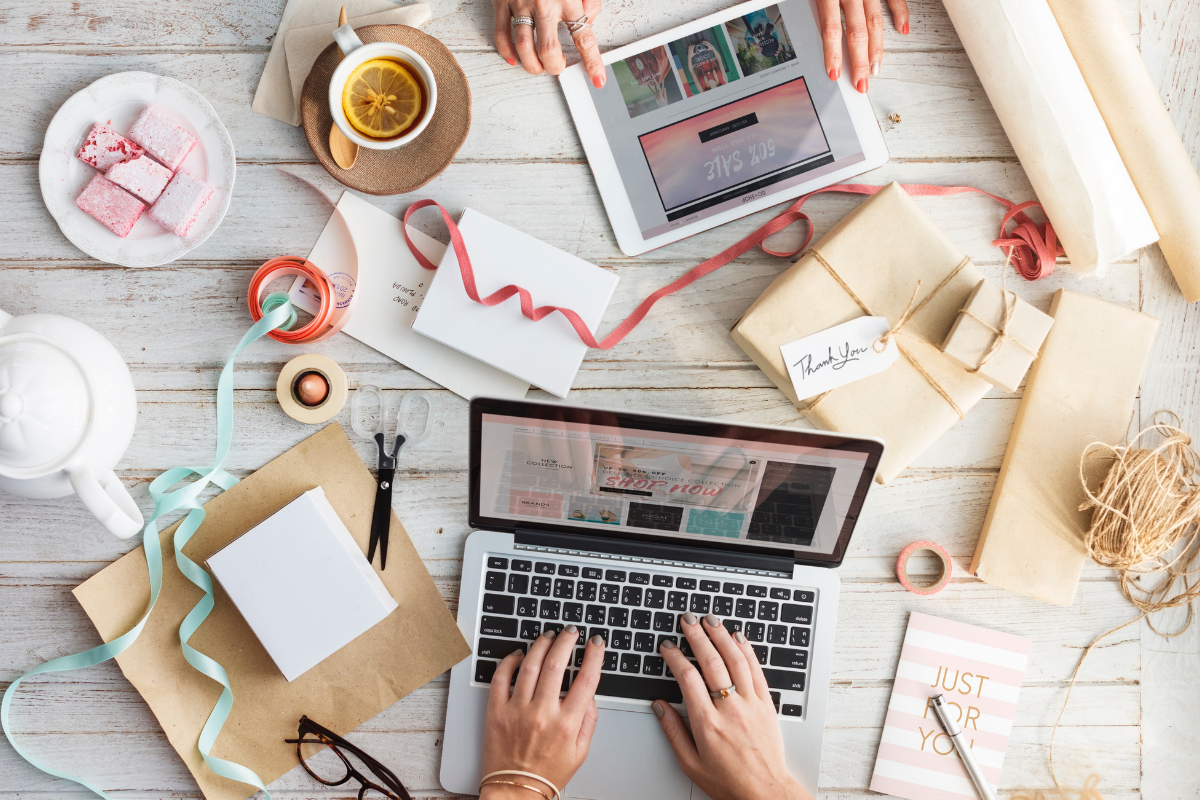
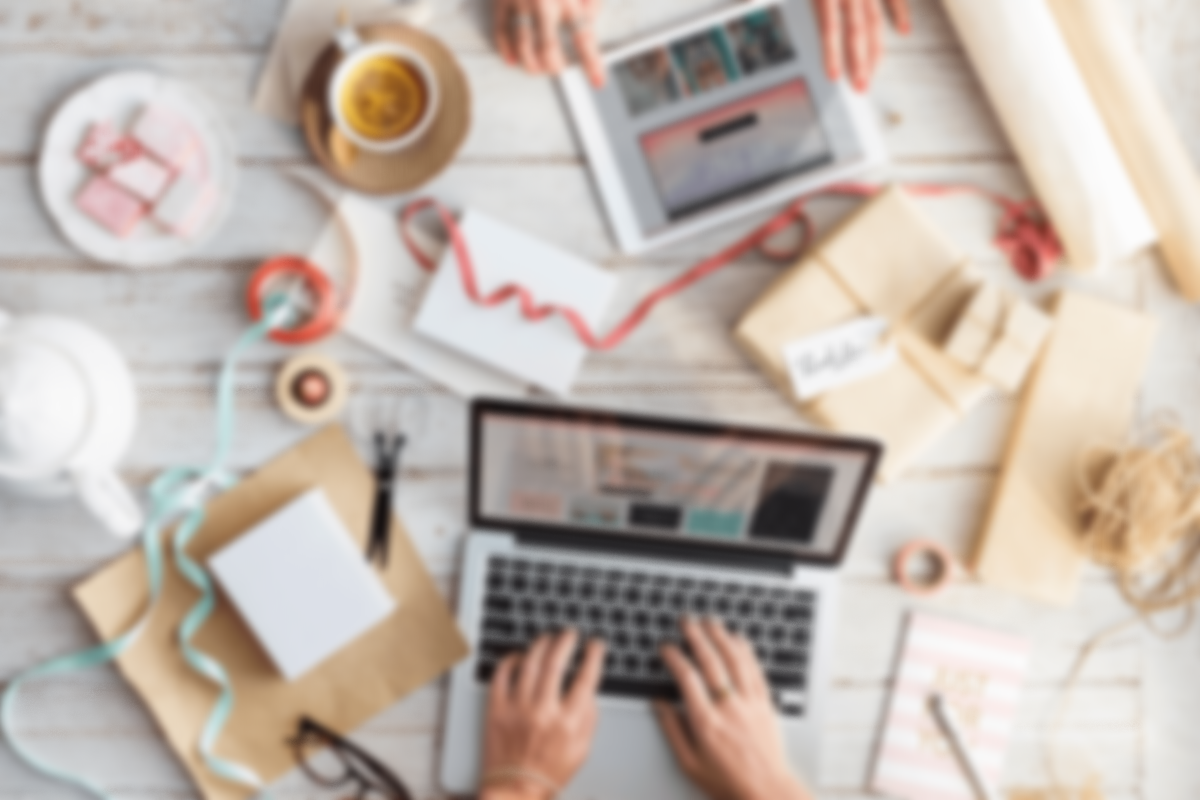
Feature (#1)
* style: added content-container, width fitting

* style: text correction

* style: blurred-background

---------

diff --git a/styles-LandingPage.css b/styles-LandingPage.css
@@ -3,24 +3,34 @@ body {
     padding: 0;
     font-family: Arial, sans-serif;
     font-size: 35px;
-    margin-left: 15px; /* Mover el h1 3px hacia la derecha */
-    background-image: url('img/background.png'); /* Ruta de tu imagen de fondo */
-    background-size: cover; /* Hace que la imagen de fondo cubra todo el área disponible */
-    background-position: center; /* Centra la imagen de fondo */
-    background-repeat: no-repeat; /* Evita la repetición de la imagen de fondo */
-    width: 100%;
+    margin-left: 15px;
+    /* Mover el h1 3px hacia la derecha */
+    background-image: url('img/background.png');
+    /* Ruta de tu imagen de fondo */
+    background-size: cover;
+    /* Hace que la imagen de fondo cubra todo el área disponible */
+    background-position: center;
+    /* Centra la imagen de fondo */
+    background-repeat: no-repeat;
+    /* Evita la repetición de la imagen de fondo */
+    min-height: 100%;
 }
 
 header {
-    background-color: rgba(236, 194, 166, 0.445); /* Color de fondo del encabezado con 70% de opacidad */
+    background-color: rgba(236, 194, 166, 0.445);
+    /* Color de fondo del encabezado con 70% de opacidad */
     padding: 5px;
-    display: flex; /* Usar flexbox */
-    justify-content: space-between; /* Alinear elementos al extremo */
-    align-items: center; /* Centrar verticalmente */
+    display: flex;
+    /* Usar flexbox */
+    justify-content: space-between;
+    /* Alinear elementos al extremo */
+    align-items: center;
+    /* Centrar verticalmente */
 }
 
 .logo {
-    max-width: 80px; /* Ancho máximo del logo */
+    max-width: 80px;
+    /* Ancho máximo del logo */
 }
 
 .navbar {
@@ -41,18 +51,27 @@ header {
 .navbar li a {
     text-decoration: none;
     padding: 15px 25px;
-    border: 2px solid #D35400; /* Borde alrededor de los botones */
-    border-radius: 20px; /* Hace los bordes más redondos */
-    background-color: #D35400; /* Color de fondo de los botones */
-    color: #FFFFFF; /* Color del texto */
-    font-family: 'Lato', sans-serif; /* Fuente Lato */
-    font-size: 16px; /* Tamaño de fuente */
+    border: 2px solid #D35400;
+    /* Borde alrededor de los botones */
+    border-radius: 20px;
+    /* Hace los bordes más redondos */
+    background-color: #D35400;
+    /* Color de fondo de los botones */
+    color: #FFFFFF;
+    /* Color del texto */
+    font-family: 'Lato', sans-serif;
+    /* Fuente Lato */
+    font-size: 16px;
+    /* Tamaño de fuente */
 }
 
 .navbar li a:hover {
-    background-color: #FDF2E9; /* Color de fondo al pasar el mouse */
-    color: #D35400; /* Color del texto al pasar el mouse */
+    background-color: #FDF2E9;
+    /* Color de fondo al pasar el mouse */
+    color: #D35400;
+    /* Color del texto al pasar el mouse */
 }
+
 .btn-iniciar {
     display: inline-block;
     background-color: #D35400;
@@ -63,25 +82,26 @@ header {
     text-decoration: none;
     font-size: 25px;
     cursor: pointer;
-    margin-left: 150px; /* Mover el botón 20px hacia la derecha */
+    margin-left: 150px;
+    /* Mover el botón 20px hacia la derecha */
 }
 
 .btn-iniciar:hover {
     background-color: #FDF2E9;
     color: #D35400;
 }
+
 .content {
-    text-align:left;
+    text-align: left;
     color: #000000;
     background-color: #ffffffc5;
     background-size: cover;
     background-position: center;
     padding: 6%;
-    font-family:Georgia, 'Times New Roman', Times, serif;
+    font-family: Georgia, 'Times New Roman', Times, serif;
     font-size: 18px
-
-
 }
+
 .social-media {
     text-align: center;
     margin-top: 20px;
@@ -97,14 +117,16 @@ header {
 }
 
 footer {
-    background-color: #204979; /* Color de fondo para el footer */
-    color: #fff; /* Color de texto para el footer */
+    background-color: #204979;
+    /* Color de fondo para el footer */
+    color: #fff;
+    /* Color de texto para el footer */
     text-align: center;
     padding: 5px;
-    font-family:Georgia, 'Times New Roman', Times, serif;
+    font-family: Georgia, 'Times New Roman', Times, serif;
     font-size: 18px
-    
 }
+
 .contact-info {
     text-align: center;
     margin-top: 10px;
@@ -112,10 +134,8 @@ footer {
     background-color: rgba(226, 224, 223, 0.89);
     opacity: 90%;
     padding: 2%;
-    font-family:Georgia, 'Times New Roman', Times, serif;
+    font-family: Georgia, 'Times New Roman', Times, serif;
     font-size: 18px
-    
-
 }
 
 .social-media {
@@ -131,22 +151,45 @@ footer {
 }
 
 .social-icon img {
-    
-        width: 50px; /* Cambia este valor al tamaño deseado */
-        height: auto; /* Para mantener la proporción original */
 
-    
+    width: 50px;
+    /* Cambia este valor al tamaño deseado */
+    height: auto;
+    /* Para mantener la proporción original */
+
+
 }
-.img_experiencia{
-        float: right;
-        margin-left: 30px; /* Ajusta el margen izquierdo para separar la imagen del texto */
-        width: 280px; /* Cambia este valor al ancho deseado */
-    height: 800; /* Mantener la proporción original */
-    }
-   .img_experiencia2{
+
+.img_experiencia {
+    float: right;
+    margin-left: 30px;
+    /* Ajusta el margen izquierdo para separar la imagen del texto */
+    width: 280px;
+    /* Cambia este valor al ancho deseado */
+    height: 800;
+    /* Mantener la proporción original */
+}
+
+.img_experiencia2 {
     float: left;
-        margin-right: 30px; /* Ajusta el margen izquierdo para separar la imagen del texto */
-        width: 260px; /* Cambia este valor al ancho deseado */
-    height: 200; /* Mantener la proporción original */
-    }
-   
+    margin-right: 30px;
+    /* Ajusta el margen izquierdo para separar la imagen del texto */
+    width: 260px;
+    /* Cambia este valor al ancho deseado */
+    height: 200;
+    /* Mantener la proporción original */
+}
+
+.content-container {
+    display: flex;
+    min-width: 100%;
+    justify-content: space-between;
+    align-items: center;
+    margin: 20px;
+}
+
+.content {
+    max-width: 50%;
+    /* Cambia el tamaño según sea necesario */
+    text-align: center;
+}

diff --git a/LandignPage.html b/LandignPage.html
@@ -19,22 +19,24 @@
     </header>
 
     <div class="content0"> 
-        <h1>¿Quieres ayuda<br>para organizar tu(s)<br>evento(s)?</h1>
+        <h1>¿Quieres ayuda<br>para organizar tus<br>eventos?</h1>
         <button class="btn-iniciar">Iniciar</button>
-<p></p>
-
-
+        <h1> </h1>
     </div>
     
-<div class="content">
-        <img src="img/experiencia.jpg" alt="experiencias" class="img_experiencia">
-        <p class="texto">EventoCo es una plataforma todo-en-uno para la organización de eventos. Desde reuniones hasta conferencias, te proporcionamos las herramientas necesarias para nunca olvidarte de tu evento.</p>
+    <div class="content-container">
+        <div class="content">
+            <img src="img/experiencia.jpg" alt="experiencias" class="img_experiencia">
+            <p class="texto">EventoCo es una plataforma todo-en-uno para la organización de eventos. Desde reuniones hasta conferencias, te proporcionamos las herramientas necesarias para nunca olvidarte de tu evento.</p>
+        </div>
+        
+        <div class="content">
+            <img src="img/experiencia2.jpg" alt="experiencias" class="img_experiencia2">
+            <p class="texto">Nuestro equipo se enorgullece en ofrecer una experiencia fácil de usar y altamente personalizable. ¡Pruébalo hoy mismo y descubre lo fácil que puede ser organizar tu próximo evento con EventoCo!</p>
+        </div>
     </div>
-    <div class="content">
-        <img src="img/experiencia2.jpg" alt="experiencias" class="img_experiencia2">
-        <p class="texto">Nuestro equipo se enorgullece en ofrecer una experiencia fácil de usar y altamente personalizable. ¡Pruébalo hoy mismo y descubre lo fácil que puede ser organizar tu próximo evento con EventoCo!</p>
-    </div>
-<div class="contact-info">
+    
+    <div class="contact-info">
         <p class="texto">¿Tienes alguna pregunta o necesitas ayuda? ¡Contáctanos en <a href="mailto:support@eventoco.com">support@eventoco.com</a> o síguenos en nuestras redes sociales!</p>
         <div class="social-media">
             <a href="#" class="social-icon"><img src="img/facebook.png" alt="Facebook"></a>
@@ -44,9 +46,7 @@
     </div>
     
     <footer>
-        
-        <p>EVENTOCO @ 2024  FYTeam Fundations</p>
-
+        <p>&copy; 2024 EVENTOCO - FYTeam Fundations</p>
     </footer>
 </body>
 </html>
